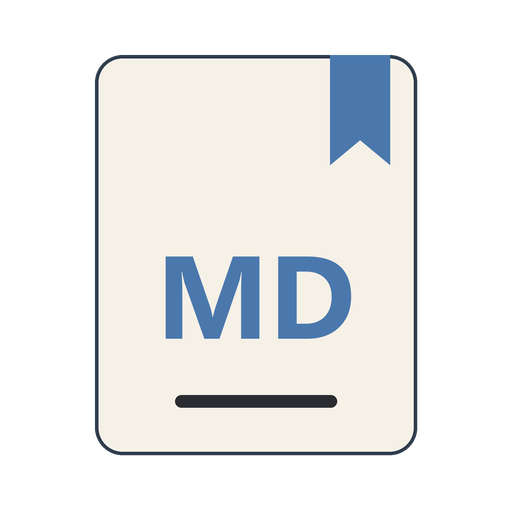
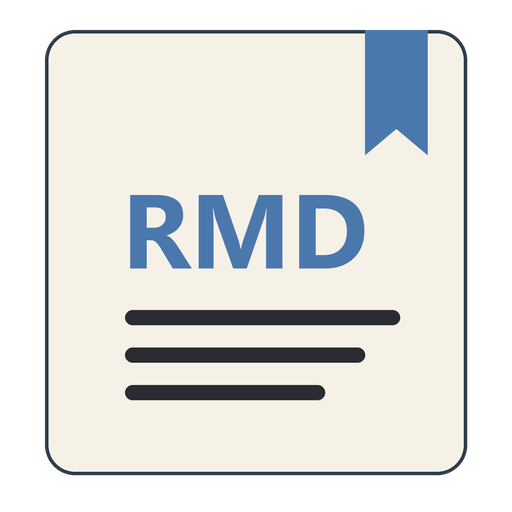
Finalize the RMD page mark
- Use RMD lettering with document lines on the page

- Enlarge the transparent page to better match desktop icon sizes

- Regenerate PNG and ICO assets

Changed region(s): [[0.0625, 0.0312, 0.9375, 0.9375]]

diff --git a/scripts/generate-icon.py b/scripts/generate-icon.py
@@ -44,24 +44,29 @@ def bold_font(size: int) -> ImageFont.FreeTypeFont | ImageFont.ImageFont:
 image = Image.new("RGBA", (SIZE, SIZE), (0, 0, 0, 0))
 draw = ImageDraw.Draw(image)
 
-# Cream page with a transparent surround and a blue bookmark ribbon.
-rounded_box(draw, (380, 220, 1668, 1820), 110, PAGE, PAGE_BORDER, 14)
+# Large cream page with a transparent surround and a blue bookmark ribbon.
+rounded_box(draw, (180, 120, 1868, 1900), 120, PAGE, PAGE_BORDER, 14)
 draw.polygon(
-    [(1320, 220), (1560, 220), (1560, 660), (1440, 560), (1320, 660)],
+    [(1460, 120), (1710, 120), (1710, 620), (1585, 515), (1460, 620)],
     fill=ACCENT,
 )
 
-# The brand mark.
+# The RMD brand mark.
 draw.text(
-    (1024, 1160),
-    "MD",
-    font=bold_font(470),
+    (980, 900),
+    "RMD",
+    font=bold_font(420),
     fill=ACCENT,
     anchor="mm",
 )
 
-# A single page line anchors the mark.
-rounded_box(draw, (700, 1580, 1348, 1630), 25, INK)
+# Document lines below the mark.
+for box in (
+    (500, 1240, 1600, 1300),
+    (500, 1390, 1460, 1450),
+    (500, 1540, 1300, 1600),
+):
+    rounded_box(draw, box, 30, INK)
 
 # Downscale for the window / package icon.
 icon = image.resize((512, 512), Image.LANCZOS)
